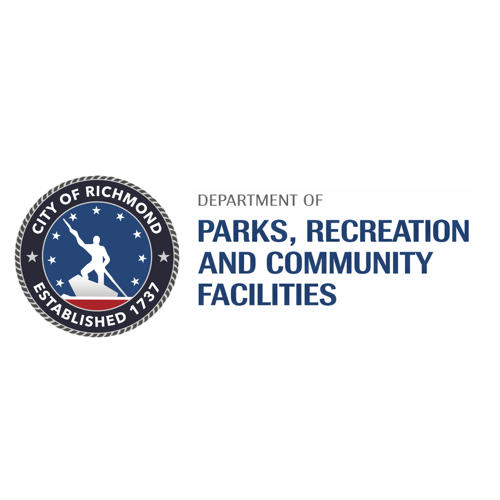
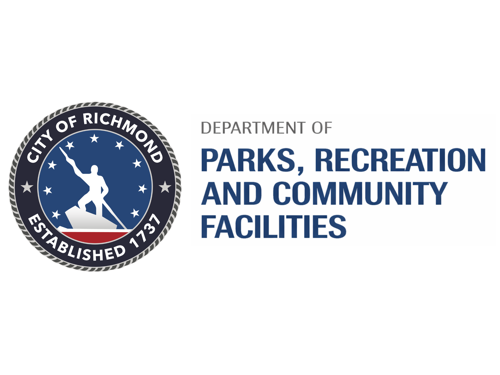
Official Vendor and carousel updates on Richmond VA and Events pages
Richmond VA: new Richmond Rec logo, all badges same size (h-44), no boxes, white bg, moved to very bottom after Beyond Events
Events: white bg Official Vendor section, removed Lebanon Rec, logos h-28, event logo carousel 3x larger (h-48)

Changed region(s): [[0.39, 0.3227, 0.99, 0.6453], [0.0, 0.264, 0.36, 0.7333]]

diff --git a/app/event-merch/page.tsx b/app/event-merch/page.tsx
@@ -225,20 +225,20 @@ export default function EventMerchPage() {
       </section>
 
       {/* ── EVENT LOGO CAROUSEL ── */}
-      <section className="border-y border-gray-200 py-12 bg-white overflow-hidden">
+      <section className="border-y border-gray-200 py-14 bg-white overflow-hidden">
         <div className="overflow-hidden">
           <div className="animate-marquee">
             {[...eventLogos, ...eventLogos].map((logo, i) => (
               <div
                 key={i}
-                className="inline-flex items-center justify-center mx-12 shrink-0 h-28 w-52"
+                className="inline-flex items-center justify-center mx-16 shrink-0 h-48 w-56"
               >
                 <Image
                   src={logo.src}
                   alt={logo.alt}
-                  width={250}
-                  height={130}
-                  className="max-h-full max-w-full object-contain"
+                  width={280}
+                  height={280}
+                  className="h-full w-full object-contain"
                 />
               </div>
             ))}
@@ -262,39 +262,32 @@ export default function EventMerchPage() {
       </section>
 
       {/* ── OFFICIAL VENDOR (subtle footer strip) ── */}
-      <section className="border-t border-gray-100 py-8 bg-gray-50">
+      <section className="border-t border-gray-100 py-10 bg-white">
         <div className="container-content">
-          <p className="text-xs font-semibold text-gray-400 uppercase tracking-widest text-center mb-6">
+          <p className="text-xs font-semibold text-gray-400 uppercase tracking-widest text-center mb-8">
             Official Vendor
           </p>
-          <div className="flex flex-wrap gap-8 justify-center items-center">
+          <div className="flex flex-wrap gap-10 justify-center items-center">
             <Image
               src="/usa-gymnastics-badge.png"
               alt="USA Gymnastics Licensed Vendor"
-              width={160}
-              height={80}
-              className="h-14 w-auto object-contain opacity-80"
+              width={220}
+              height={140}
+              className="h-28 w-auto object-contain opacity-90"
             />
             <Image
               src="/richmond-rec-badge.png"
               alt="Richmond Parks & Recreation Official Vendor"
               width={220}
-              height={110}
-              className="h-20 w-auto object-contain opacity-80"
-            />
-            <Image
-              src="/lebanon-rec-logo.png"
-              alt="Lebanon Recreation Department Official Vendor"
-              width={160}
-              height={80}
-              className="h-14 w-auto object-contain opacity-80"
+              height={140}
+              className="h-28 w-auto object-contain opacity-90"
             />
             <Image
               src="/aau-badge.png"
               alt="AAU Official Vendor"
-              width={160}
-              height={80}
-              className="h-14 w-auto object-contain opacity-80"
+              width={220}
+              height={140}
+              className="h-28 w-auto object-contain opacity-90"
             />
           </div>
         </div>

diff --git a/app/richmond-va/page.tsx b/app/richmond-va/page.tsx
@@ -230,44 +230,6 @@ export default function RichmondVAPage() {
         </div>
       </section>
 
-      {/* ── CREDENTIALS ── */}
-      <section className="section bg-gray-50 border-b border-gray-200">
-        <div className="container-content">
-          <p className="text-xs font-semibold text-gray-400 uppercase tracking-widest text-center mb-8">
-            Official Vendor
-          </p>
-          <div className="flex flex-wrap gap-8 justify-center items-center">
-            <div className="bg-white border border-gray-200 rounded-xl p-6 shadow-sm flex items-center justify-center">
-              <Image
-                src="/usa-gymnastics-badge.png"
-                alt="USA Gymnastics Licensed Vendor"
-                width={300}
-                height={180}
-                className="h-40 w-auto object-contain"
-              />
-            </div>
-            <div className="bg-white border border-gray-200 rounded-xl p-6 shadow-sm flex items-center justify-center">
-              <Image
-                src="/richmond-rec-badge.png"
-                alt="Richmond Parks & Recreation Official Vendor"
-                width={380}
-                height={220}
-                className="h-52 w-auto object-contain"
-              />
-            </div>
-            <div className="bg-white border border-gray-200 rounded-xl p-6 shadow-sm flex items-center justify-center">
-              <Image
-                src="/aau-badge.png"
-                alt="AAU Official Vendor"
-                width={300}
-                height={180}
-                className="h-40 w-auto object-contain"
-              />
-            </div>
-          </div>
-        </div>
-      </section>
-
       {/* ── REVIEWS ── */}
       <section className="section bg-white">
         <div className="container-content">
@@ -343,6 +305,38 @@ export default function RichmondVAPage() {
                 View embroidery &rarr;
               </Link>
             </div>
+          </div>
+        </div>
+      </section>
+
+      {/* ── OFFICIAL VENDOR ── */}
+      <section className="border-t border-gray-200 py-10 bg-white">
+        <div className="container-content">
+          <p className="text-xs font-semibold text-gray-400 uppercase tracking-widest text-center mb-8">
+            Official Vendor
+          </p>
+          <div className="flex flex-wrap gap-10 justify-center items-center">
+            <Image
+              src="/usa-gymnastics-badge.png"
+              alt="USA Gymnastics Licensed Vendor"
+              width={280}
+              height={180}
+              className="h-44 w-auto object-contain"
+            />
+            <Image
+              src="/richmond-rec-badge.png"
+              alt="Richmond Parks & Recreation Official Vendor"
+              width={280}
+              height={180}
+              className="h-44 w-auto object-contain"
+            />
+            <Image
+              src="/aau-badge.png"
+              alt="AAU Official Vendor"
+              width={280}
+              height={180}
+              className="h-44 w-auto object-contain"
+            />
           </div>
         </div>
       </section>
